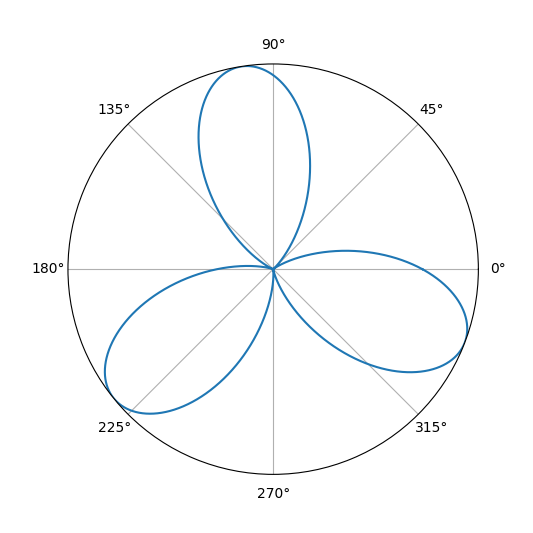
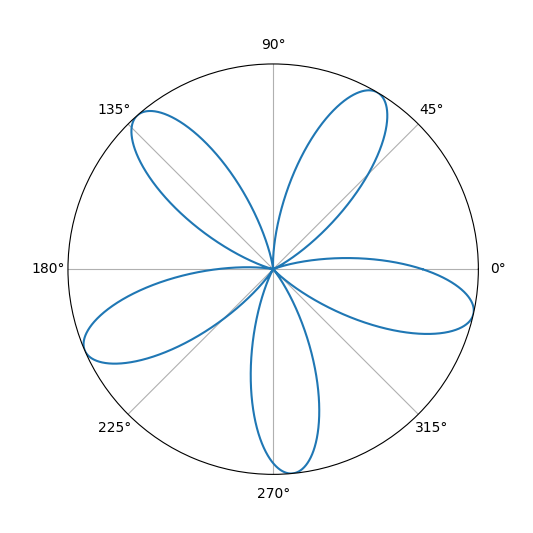
saving picture with aliasing effect, name of file depends on number of propellers and lines

diff --git a/aliasing.py b/aliasing.py
@@ -5,9 +5,8 @@ from PIL import Image
 
 res = 256 / 96 * 2  # resolution
 M = 64  # frames in one circle of animation
-L = 32  # amount of layars divided by 2
-r = 0
-n = 3  # quantity of propellers
+L = 32  # amount of layers divided by 2
+n = 5  # quantity of propellers
 j = 0
 
 
@@ -20,6 +19,7 @@ def aliasing():
     background.paste(tmpCrop, (0, j * L))
     j += 1
     if round(j > 512 / L):
+        background.save(f'{n}-prop-{L / 2}-lines.png')
         background.show()
         exit()
 
